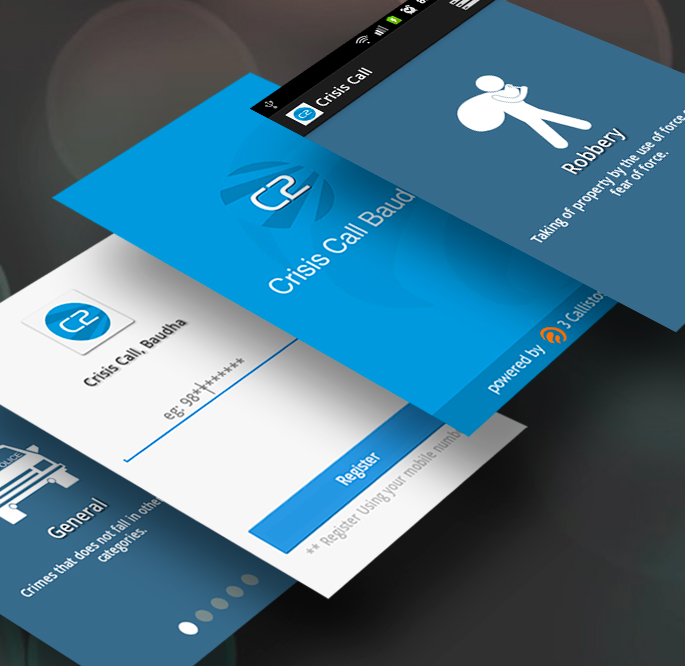
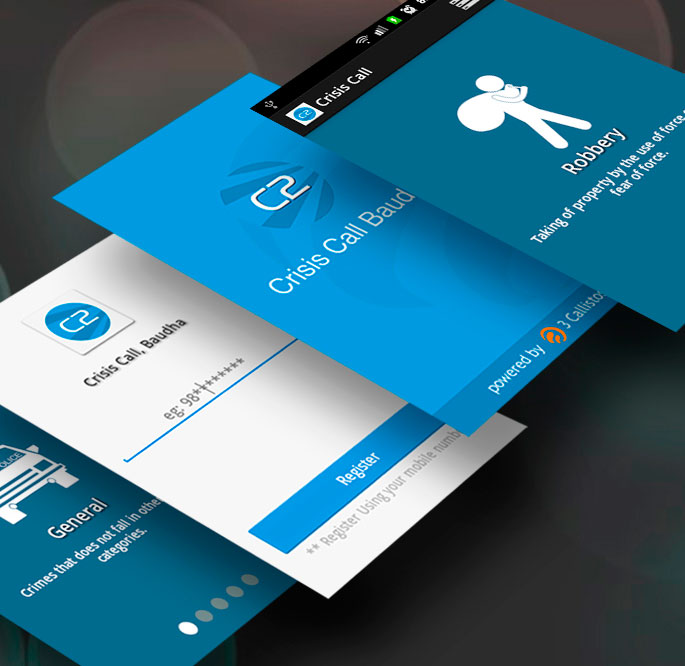
paris done

diff --git a/css/paris.css b/css/paris.css
@@ -153,7 +153,7 @@ h1, h2, h3, h4, h5, h6, ul {
 }
 /* line 150, ../sass/paris.scss */
 .page-wrapper.pg-start {
-  background: url(../img/main-bg.jpg) no-repeat;
+  background: url(../img/landing.jpg) no-repeat;
   background-size: cover;
   width: 100%;
   height: 100%;
@@ -194,7 +194,7 @@ h1, h2, h3, h4, h5, h6, ul {
 }
 /* line 192, ../sass/paris.scss */
 .page-wrapper.s-bg, .page-wrapper.w-bg, .page-wrapper.c-bg, .page-wrapper.co-bg {
-  background: url(../img/bg-inner-first.jpg) no-repeat;
+  background: url(../img/bg-ux.jpg) no-repeat;
   background-size: cover;
   width: 100%;
   height: 100%;
@@ -716,9 +716,11 @@ h1, h2, h3, h4, h5, h6, ul {
   padding: 60px;
   line-height: 22px;
   height: 100%;
-  background: rgba(0, 0, 255, 0.3);
+  /*background: rgba(0,0,255,.3);*/
+  background: url(../img/bg-design.jpg) no-repeat;
+  background-size: cover;
 }
-/* line 722, ../sass/paris.scss */
+/* line 724, ../sass/paris.scss */
 .service-list .s-list.s-design .s-header, .service-list .s-list.s-app .s-header {
   text-align: right !important;
   font-size: 90px;
@@ -728,49 +730,49 @@ h1, h2, h3, h4, h5, h6, ul {
   text-transform: capitalize !important;
   text-shadow: 7px 0 10px rgba(0, 0, 0, 0.6);
 }
-/* line 733, ../sass/paris.scss */
+/* line 735, ../sass/paris.scss */
 .service-list .s-list.s-design p, .service-list .s-list.s-app p {
   text-align: right !important;
   font-family: Montserrat, sans-serif !important;
   text-shadow: 2px 0px 10px rgba(0, 0, 0, 0.4);
 }
-/* line 738, ../sass/paris.scss */
+/* line 740, ../sass/paris.scss */
 .service-list .s-list.s-design p strong, .service-list .s-list.s-app p strong {
   font-family: Montserrat, sans-serif !important;
 }
-/* line 744, ../sass/paris.scss */
+/* line 746, ../sass/paris.scss */
 .service-list .s-list.s-design .click-btn, .service-list .s-list.s-app .click-btn {
   text-align: right;
 }
-/* line 748, ../sass/paris.scss */
+/* line 750, ../sass/paris.scss */
 .service-list .s-list.s-app {
   /*background-color: rgba(255,0,0,.3);*/
   right: 0 !important;
 }
-/* line 751, ../sass/paris.scss */
+/* line 753, ../sass/paris.scss */
 .service-list .s-list.s-app .s-header {
   text-align: left !important;
 }
-/* line 755, ../sass/paris.scss */
+/* line 757, ../sass/paris.scss */
 .service-list .s-list.s-app p {
   text-align: left !important;
 }
-/* line 759, ../sass/paris.scss */
+/* line 761, ../sass/paris.scss */
 .service-list .s-list.s-app .click-btn {
   text-align: left !important;
 }
-/* line 762, ../sass/paris.scss */
+/* line 764, ../sass/paris.scss */
 .service-list .s-list.s-app.c-apps {
   background: url(../img/crisisdesktop.jpg) no-repeat;
   background-size: cover;
 }
-/* line 766, ../sass/paris.scss */
+/* line 768, ../sass/paris.scss */
 .service-list .s-list.s-app.s {
   background: url(../img/paris-mobile.png) no-repeat;
   background-size: cover;
 }
 
-/* line 774, ../sass/paris.scss */
+/* line 776, ../sass/paris.scss */
 .s-title {
   position: absolute;
   top: 50%;
@@ -779,30 +781,30 @@ h1, h2, h3, h4, h5, h6, ul {
   transform: translate(-50%, -50%);
   /*strong{display: block !important}*/
 }
-/* line 781, ../sass/paris.scss */
+/* line 783, ../sass/paris.scss */
 .s-title .title {
   text-align: center !important;
   font-size: 62px !important;
 }
-/* line 783, ../sass/paris.scss */
+/* line 785, ../sass/paris.scss */
 .s-title h1 {
   display: block !important;
 }
-/* line 784, ../sass/paris.scss */
+/* line 786, ../sass/paris.scss */
 .s-title h2 {
   display: block !important;
 }
 
 /*Post Animation */
-/* line 789, ../sass/paris.scss */
+/* line 791, ../sass/paris.scss */
 .pg .s-list {
   display: none;
 }
-/* line 792, ../sass/paris.scss */
+/* line 794, ../sass/paris.scss */
 .pg .s-page {
   display: none;
 }
-/* line 795, ../sass/paris.scss */
+/* line 797, ../sass/paris.scss */
 .pg .title.small {
   display: none;
   z-index: 2002;
@@ -812,56 +814,58 @@ h1, h2, h3, h4, h5, h6, ul {
   padding-right: 30px;
   top: 30px;
 }
-/* line 803, ../sass/paris.scss */
+/* line 805, ../sass/paris.scss */
 .pg .title.small h1 {
   margin: 5px;
   font-size: 24px !important;
   display: inline-block !important;
 }
 
-/* line 814, ../sass/paris.scss */
+/* line 816, ../sass/paris.scss */
 .pg-products .s-design p, .pg-products .s-design .s-header, .pg-products .s-app p, .pg-products .s-app .s-header {
   text-align: center !important;
 }
-/* line 822, ../sass/paris.scss */
+/* line 824, ../sass/paris.scss */
 .pg-products #light-color .service-list .s-list.s-design {
   background: url(../img/battiaayodes.png) no-repeat;
   background-size: cover;
 }
 
-/* line 834, ../sass/paris.scss */
+/* line 836, ../sass/paris.scss */
 .col-sm-3.s-list.s-app0 {
   background: url(../img/namesdes.png) no-repeat;
   background-size: cover;
   left: 0 !important;
 }
 
-/* line 840, ../sass/paris.scss */
+/* line 842, ../sass/paris.scss */
 .col-sm-3.s-list.s-app25 {
   background: url(../img/symdes.png) no-repeat;
   background-size: cover;
   left: 25% !important;
 }
 
-/* line 845, ../sass/paris.scss */
+/* line 847, ../sass/paris.scss */
 .col-sm-3.s-list.s-app75 {
+  background: url(../img/grepsr.png) no-repeat;
+  background-size: cover;
   right: 25% !important;
 }
 
-/* line 848, ../sass/paris.scss */
+/* line 852, ../sass/paris.scss */
 .col-sm-3.s-list.s-app100 {
-  background: url(../img/miscdes.png) no-repeat;
+  background: url(../img/miscdes.jpg) no-repeat;
   background-size: cover;
 }
 
-/* line 852, ../sass/paris.scss */
+/* line 856, ../sass/paris.scss */
 .col-sm-3.s-list.s-app200 {
   left: 0 !important;
   top: 0 !important;
   width: 100% !important;
 }
 
-/* line 862, ../sass/paris.scss */
+/* line 866, ../sass/paris.scss */
 .pg-works .service-list .s-list .s-header {
   text-align: center !important;
   font-size: 30px;
@@ -870,37 +874,37 @@ h1, h2, h3, h4, h5, h6, ul {
   font-family: Pacifico, serif !important;
   text-transform: capitalize !important;
 }
-/* line 872, ../sass/paris.scss */
+/* line 876, ../sass/paris.scss */
 .pg-works .service-list .s-list p {
   text-align: center !important;
   font-family: Montserrat, sans-serif !important;
 }
-/* line 876, ../sass/paris.scss */
+/* line 880, ../sass/paris.scss */
 .pg-works .service-list .s-list p strong {
   font-family: Montserrat, sans-serif !important;
 }
 
-/* line 886, ../sass/paris.scss */
+/* line 890, ../sass/paris.scss */
 .w-list {
   cursor: pointer;
   box-shadow: 0 0 3px #000;
 }
-/* line 890, ../sass/paris.scss */
+/* line 894, ../sass/paris.scss */
 .w-list:hover {
   background: rgba(0, 0, 0, 0.4);
 }
 
-/* line 897, ../sass/paris.scss */
+/* line 901, ../sass/paris.scss */
 .pg-contact #light-color {
   padding: 0 !important;
 }
-/* line 899, ../sass/paris.scss */
+/* line 903, ../sass/paris.scss */
 .pg-contact .contact-container {
   display: none;
   text-align: center;
   color: #FFF;
 }
-/* line 901, ../sass/paris.scss */
+/* line 905, ../sass/paris.scss */
 .pg-contact .contact-container h1 {
   /*text-align: right !important;*/
   font-size: 90px;
@@ -909,18 +913,18 @@ h1, h2, h3, h4, h5, h6, ul {
   font-family: Pacifico, serif !important;
   text-transform: capitalize !important;
 }
-/* line 909, ../sass/paris.scss */
+/* line 913, ../sass/paris.scss */
 .pg-contact .contact-container p {
   font-family: Montserrat, sans-serif;
   font-size: 19px;
 }
-/* line 912, ../sass/paris.scss */
+/* line 916, ../sass/paris.scss */
 .pg-contact .contact-container p a {
   color: #FFF;
   text-decoration: underline;
 }
 
-/* line 923, ../sass/paris.scss */
+/* line 927, ../sass/paris.scss */
 .dark-shade {
   position: absolute;
   width: 100%;
@@ -928,5 +932,9 @@ h1, h2, h3, h4, h5, h6, ul {
   top: 0;
   left: 0;
   padding: 50px;
-  background-color: rgba(0, 0, 0, 0.4);
+  background-color: rgba(0, 0, 0, 0.7);
+}
+/* line 935, ../sass/paris.scss */
+.dark-shade:hover {
+  background-color: rgba(0, 0, 0, 0.5);
 }

diff --git a/sass/paris.scss b/sass/paris.scss
@@ -148,7 +148,7 @@ border-radius: 0;
     	@extend #nav-bar;
     }
     &.pg-start{
-    	background:url(../img/main-bg.jpg) no-repeat;
+    	background:url(../img/landing.jpg) no-repeat;
     	background-size: cover;
     	width: 100%;
     	height: 100%;
@@ -190,8 +190,8 @@ border-radius: 0;
 			}
 		}
 		&.s-bg{
-		background: url(../img/bg-inner-first.jpg) no-repeat;
-		background-size: cover;
+			background: url(../img/bg-ux.jpg)no-repeat;
+			background-size: cover;
 		width: 100%;
 		height: 100%;
 		#header{
@@ -717,7 +717,9 @@ padding:20px;
   padding: 60px;
   line-height: 22px;
   height: 100%;
-  background: rgba(0,0,255,.3);
+  /*background: rgba(0,0,255,.3);*/
+	background: url(../img/bg-design.jpg) no-repeat;
+	background-size: cover;
 				
 				.s-header{
 			text-align: right !important;
@@ -843,10 +845,12 @@ padding:20px;
 	left:25% !important;
 }
 .col-sm-3.s-list.s-app75{
+	background: url(../img/grepsr.png) no-repeat;
+	background-size: cover;
 	right: 25% !important;
 }
 .col-sm-3.s-list.s-app100{
-	background: url(../img/miscdes.png) no-repeat;
+	background: url(../img/miscdes.jpg) no-repeat;
 	background-size: cover;
 }
 .col-sm-3.s-list.s-app200{
@@ -927,6 +931,10 @@ text-align: center; color:#FFF;
 	top:0;
 	left: 0;
 	  padding: 50px;
-  background-color: rgba(0,0,0,.4);
+  background-color: rgba(0,0,0,.7);
+  &:hover{
+  background-color: rgba(0,0,0,.5);
+  }
 }
+
 

diff --git a/index.html b/index.html
@@ -13,7 +13,7 @@
 </head>
 
 <body>
- 
+  
  <div class="mask">
  <div class="page-wrap">
     <div class="page-wrapper pg pg1 pg-start">
